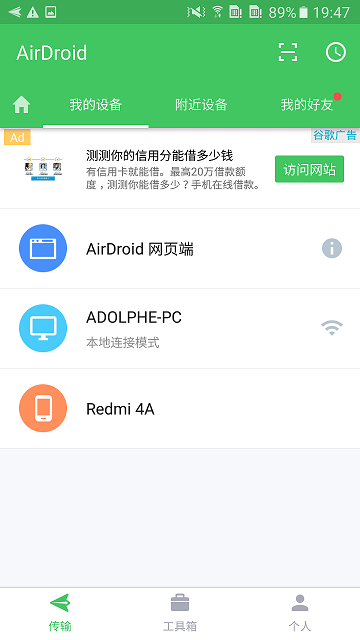
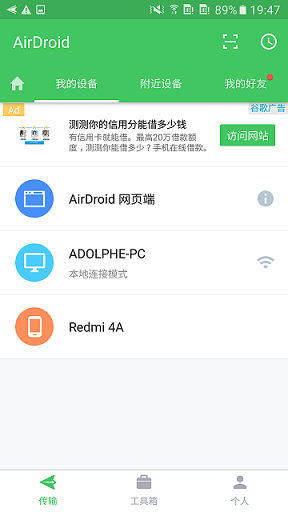
change image size

diff --git a/AirDroid.md b/AirDroid.md
@@ -1,4 +1,4 @@
-# ![icon][5] 安卓手机屏幕投影到电脑
+# ![AirDroid][5] 安卓手机屏幕投影到电脑
 借助 AirDroid 软件将 android 手机屏幕投影到计算机。         
 从连接稳定性、使用便捷度、手机适配度上，AirDroid 远胜 Vysor（chrom浏览器插件）、一键投影、BBQScreen、安卓录屏王 等应用。
 
